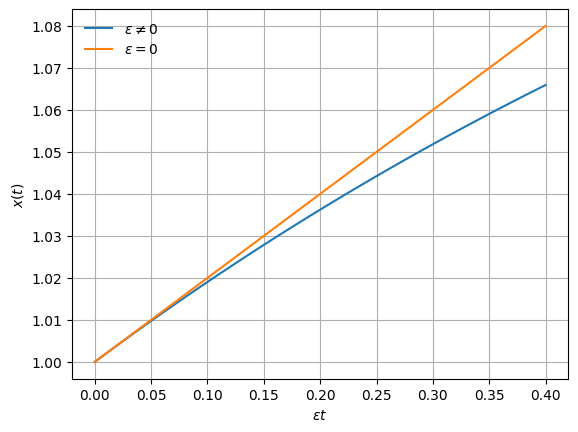
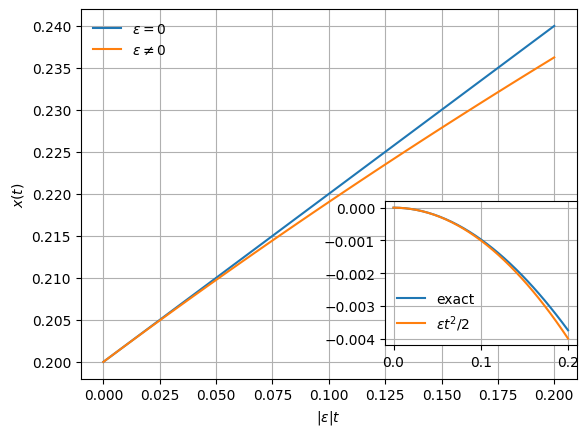
Fix errors

Changed region(s): [[0.0, 0.0301, 0.9965, 0.9931]]

diff --git a/docs/analytical-vs-numerical.html b/docs/analytical-vs-numerical.html
@@ -7,7 +7,7 @@
 <meta name="viewport" content="width=device-width, initial-scale=1.0, user-scalable=yes">
 
 <meta name="author" content="Michele Zaffalon">
-<meta name="dcterms.date" content="2025-03-09">
+<meta name="dcterms.date" content="2025-03-12">
 
 <title>Analytical vs Numerical Tools in Control Systems</title>
 <style>
@@ -202,7 +202,7 @@ window.Quarto = {
     <div>
     <div class="quarto-title-meta-heading">Published</div>
     <div class="quarto-title-meta-contents">
-      <p class="date">March 9, 2025</p>
+      <p class="date">March 12, 2025</p>
     </div>
   </div>
   
@@ -228,7 +228,7 @@ window.Quarto = {
 <p>with initial condition <span class="math inline">\(x(0)=x_0\)</span>, where <span class="math inline">\(A\)</span> is a <span class="math inline">\(n\times n\)</span> matrix with constant coefficient. In control systems, this equation comes either from the free evolution of the system (without control input, <span class="math inline">\(u=0\)</span>) or from the closed loop evolution <span class="math inline">\(A-BL\)</span> under the state feedback law <span class="math inline">\(u=-Lx\)</span>.</p>
 <p>The solution is</p>
 <p><span class="math display">\[ x(t) = e^{At}x_0. \]</span></p>
-<p>One way to compute the matrix exponential is to use the Jordan normal form decomposition <span class="math inline">\(AV = VJ\)</span> since most often than not, <span class="math inline">\(A\)</span> cannot be diagonalised. <span class="math inline">\(J\)</span> is a block diagonal matrix where each Jordan block <span class="math inline">\(J_i\)</span> would have <span class="math inline">\(\lambda_i\)</span> on the diagonal and <span class="math inline">\(1\)</span> on the superdiagonal.</p>
+<p>Analytically, one way to compute the matrix exponential is to use the Jordan normal form decomposition <span class="math inline">\(AV = VJ\)</span> since most often than not, <span class="math inline">\(A\)</span> cannot be diagonalised. <span class="math inline">\(J\)</span> is a block diagonal matrix where each Jordan block <span class="math inline">\(J_i\)</span> would have <span class="math inline">\(\lambda_i\)</span> on the diagonal and <span class="math inline">\(1\)</span> on the superdiagonal.</p>
 <p>The exponent <span class="math inline">\(e^{Jt}\)</span> is also block diagonal and each block has the form <span class="math display">\[ e^{J_it} = e^{\lambda_it} \begin{bmatrix}
 1 &amp; t      &amp; \frac{t^2}{2!} &amp; \ldots &amp; \frac{t^{n-1}}{(n-1)!} \\
   &amp; 1      &amp; t              &amp; \ldots &amp; \frac{t^{n-2}}{(n-2)!} \\
@@ -244,11 +244,11 @@ window.Quarto = {
 <p>This section is a remark on a purely analytical result.</p>
 <p>We would study the closed-loop stability as a function of a paramter. For some values of the parameter, the closed-loop matrix becomes defective (that is, it does not have a complete set of linearly independent eigenvectors) and it only admits a Jordan normal form. Analytically, the solution of the defective matrix <em>looks</em> different than the solution where the eigenvalues are slightly apart but is no substantial difference: after all, we are dealing with a linear system and we expect no surprises.</p>
 <p>As an example, take the second order autonomous differential equation <span id="eq-ODE-defective"><span class="math display">\[ \ddot{x} + \epsilon \dot{x}=0.  \tag{2}\]</span></span> This equation could describe a mechanical system that obeys Newton’s second law <span class="math inline">\(F=ma\)</span> with the term <span class="math inline">\(\epsilon \dot{x}\)</span> representing friction.</p>
-<p>One way to solve it requires us to write down the characteristic polynomial <span class="math inline">\(\lambda^2 - \epsilon \lambda=0\)</span>: for <span class="math inline">\(\epsilon\ne 0\)</span> there are two distinct solutions; for <span class="math inline">\(\epsilon=0\)</span> only one with double multiplicity. Then <span class="math inline">\(x(t)\)</span> becomes <span class="math display">\[ x(t) = \begin{cases}
-\tilde{x}_0 + \tilde{x}_1\frac{e^{\epsilon t}-1}{\epsilon} &amp; \epsilon \ne 0 \\
+<p>One way to solve it requires us to write down the characteristic polynomial <span class="math inline">\(\lambda^2 + \epsilon \lambda=0\)</span>: for <span class="math inline">\(\epsilon\ne 0\)</span> there are two distinct solutions; for <span class="math inline">\(\epsilon=0\)</span> only one with double multiplicity. Then <span class="math inline">\(x(t)\)</span> becomes <span class="math display">\[ x(t) = \begin{cases}
+\tilde{x}_0 + \tilde{x}_1\frac{1-e^{\epsilon t}}{\epsilon} &amp; \epsilon \ne 0 \\
 \tilde{x}_0 + \tilde{x}_1 \cdot t &amp; \epsilon = 0
 \end{cases} \]</span> where <span class="math inline">\(\tilde{x}_0\)</span> and <span class="math inline">\(\tilde{x}_1\)</span> are the two initial conditions for <span class="math inline">\(x(0)\)</span> and <span class="math inline">\(\dot{x}(0)\)</span>.</p>
-<p>For short time evolutions <span class="math inline">\(|\epsilon t| \ll 1\)</span>, the exponent has Taylor expansion <span class="math inline">\(e^{\epsilon t}\approx 1+\epsilon t\)</span> and the solution for <span class="math inline">\(\epsilon\ne 0\)</span> can be approximated by <span class="math display">\[ x(t)\approx \tilde{x}_0+\tilde{x}_1 t. \]</span> This approximation holds for a time sufficiently long to “detect” that <span class="math inline">\(\epsilon\ne 0\)</span>. For shorter times, the two solutions are indistinguishable, see <a href="#fig-defective" class="quarto-xref">Figure&nbsp;1</a>.</p>
+<p>For short time evolutions <span class="math inline">\(|\epsilon t| \ll 1\)</span>, the exponent has Taylor expansion <span class="math inline">\(e^{\epsilon t}\approx 1+\epsilon t\)</span> and the solution for <span class="math inline">\(\epsilon\ne 0\)</span> can be approximated by <span class="math display">\[ x(t)\approx \tilde{x}_0+\tilde{x}_1 t. \]</span> This approximation holds for a time sufficiently long to “detect” that <span class="math inline">\(\epsilon\ne 0\)</span>. For shorter times, the two solutions are indistinguishable, see <a href="#fig-defective" class="quarto-xref">Figure&nbsp;1</a>. The error of this approximation can be estimated by keeping the next term of the Taylor expansion, <span class="math inline">\(x_1\epsilon t^2/2\)</span>.</p>
 <div id="cell-fig-defective" class="cell" data-execution_count="2">
 <div class="cell-output cell-output-display">
 <div id="fig-defective" class="quarto-float quarto-figure quarto-figure-center anchored">
@@ -257,20 +257,16 @@ window.Quarto = {
 <img src="analytical-vs-numerical_files/figure-html/fig-defective-output-1.png" class="img-fluid figure-img">
 </div>
 <figcaption class="quarto-float-caption-bottom quarto-float-caption quarto-float-fig" id="fig-defective-caption-0ceaefa1-69ba-4598-a22c-09a6ac19f8ca">
-Figure&nbsp;1: Comparison of the time evolutions of <a href="#eq-ODE-defective" class="quarto-xref">Equation&nbsp;2</a> for <span class="math inline">\(\epsilon \ne 0\)</span> and for <span class="math inline">\(\epsilon = 0\)</span>.
+Figure&nbsp;1: Comparison of the time evolutions of <a href="#eq-ODE-defective" class="quarto-xref">Equation&nbsp;2</a> for <span class="math inline">\(\epsilon \ne 0\)</span> and for <span class="math inline">\(\epsilon = 0\)</span> as a function of <span class="math inline">\(|\epsilon t|\)</span>. The inset shows the error between the two expressions, and the <em>estimate</em> <span class="math inline">\(x_1\epsilon t^2/2\)</span> of the error coming from the second term of the Taylor expansion of <span class="math inline">\(e^{\epsilon t}\)</span>.
 </figcaption>
 </figure>
 </div>
 </div>
 </div>
-<!---
-In the space state form, @eq-ODE-defective can be written as
-$$ \begin{pmatrix} \dot{x}_1 \\ \dot{x}_2 \end{pmatrix} = \begin{pmatrix} 0 & 1 \\ 0 & -\epsilon \end{pmatrix} \begin{pmatrix} x_1 \\ x_2 \end{pmatrix}. $$
---->
 </section>
 <section id="asymptotic-stability" class="level1">
 <h1>Asymptotic Stability</h1>
-<p>For linear systems, the stability properties of the plant are analysed by looking at the eigenvalues of the plants matrix <span class="math inline">\(A\)</span> (or the stabilized plant <span class="math inline">\(A+BL\)</span> where the feedback control law <span class="math inline">\(L\)</span> is obtained <em>e.g.</em> by ):</p>
+<p>For linear systems, the stability properties of the plant are analysed by looking at the eigenvalues of the plants matrix <span class="math inline">\(A\)</span> (or the stabilized plant <span class="math inline">\(A+BL\)</span> where the feedback control law <span class="math inline">\(L\)</span> is obtained by <em>e.g.</em> pole placement):</p>
 <ul>
 <li>negative (real part of) eigenvalue <span class="math inline">\(\rightarrow\)</span> the mode is stable;</li>
 <li>positive eigenvalue <span class="math inline">\(\rightarrow\)</span> the mode is unstable;</li>
@@ -298,7 +294,7 @@ $$ \begin{pmatrix} \dot{x}_1 \\ \dot{x}_2 \end{pmatrix} = \begin{pmatrix} 0 & 1 
 <li>the data quality, in case of experimental data.</li>
 </ul>
 <p>In the example below, the third column of the matrix <span class="math inline">\(A\)</span> is a linear combination of the first two: therefore <span class="math inline">\(A\)</span> has therefore mathematical rank 2 (and null-space of dimension 1):</p>
-<div id="08c06f56" class="cell" data-hold="true" data-execution_count="3">
+<div id="b0c9cbf6" class="cell" data-hold="true" data-execution_count="3">
 <div class="sourceCode cell-code" id="cb1"><pre class="sourceCode julia code-with-copy"><code class="sourceCode julia"><span id="cb1-1"><a href="#cb1-1" aria-hidden="true" tabindex="-1"></a>A <span class="op">=</span> <span class="kw">let</span></span>
 <span id="cb1-2"><a href="#cb1-2" aria-hidden="true" tabindex="-1"></a>    v <span class="op">=</span> [<span class="fl">1</span>, <span class="fl">2</span>, <span class="fl">4</span>]</span>
 <span id="cb1-3"><a href="#cb1-3" aria-hidden="true" tabindex="-1"></a>    w <span class="op">=</span> [<span class="fl">3</span>, <span class="op">-</span><span class="fl">2</span>, <span class="fl">5</span>]</span>
@@ -324,7 +320,7 @@ rank(B; rtol = 1.0e-7) = 2</code></pre>
 <p>I have asked <a href="https://idsc.ethz.ch/">Prof.&nbsp;Zeilinger</a> (eventual errors are mine). Her answer was</p>
 <ul>
 <li>it should only be applied to system models obtained from first principles and not, for instance, by system identification;</li>
-<li>no better definition of controllability/observability exists.</li>
+<li>no better definition of controllability/observability exists. <em>Input-output</em> controllability is a more practical definition although mathematically less rigorous (see Sect. 5 of <span class="citation" data-cites="multivariable-feedback">Skogestad and Postlethwaite</span>).</li>
 </ul>
 <!--
 ## Are Lyapunov Functions Theoretical Tools?
@@ -355,6 +351,9 @@ I fix it by adding an absurdibly small term of the appropriate degree: $10^{-100
 <div id="quarto-appendix" class="default"><section class="quarto-appendix-contents" role="doc-bibliography" id="quarto-bibliography"><h2 class="anchored quarto-appendix-heading">References</h2><div id="refs" class="references csl-bib-body hanging-indent" data-entry-spacing="0" role="list">
 <div id="ref-nineteen-dubious" class="csl-entry" role="listitem">
 Moler, Cleve, and Charles Van Loan. 2003. <span>“Nineteen Dubious Ways to Compute the Exponential of a Matrix, Twenty-Five Years Later.”</span> <em>SIAM Review</em> 45 (1).
+</div>
+<div id="ref-multivariable-feedback" class="csl-entry" role="listitem">
+Skogestad, Sigurd, and Ian Postlethwaite. <em>Multivariable Feedback Control: Analysis and Design</em>. Second edition, 2001. John Wiley &amp; Sons.
 </div>
 </div></section><section id="footnotes" class="footnotes footnotes-end-of-document" role="doc-endnotes"><h2 class="anchored quarto-appendix-heading">Footnotes</h2>
 
